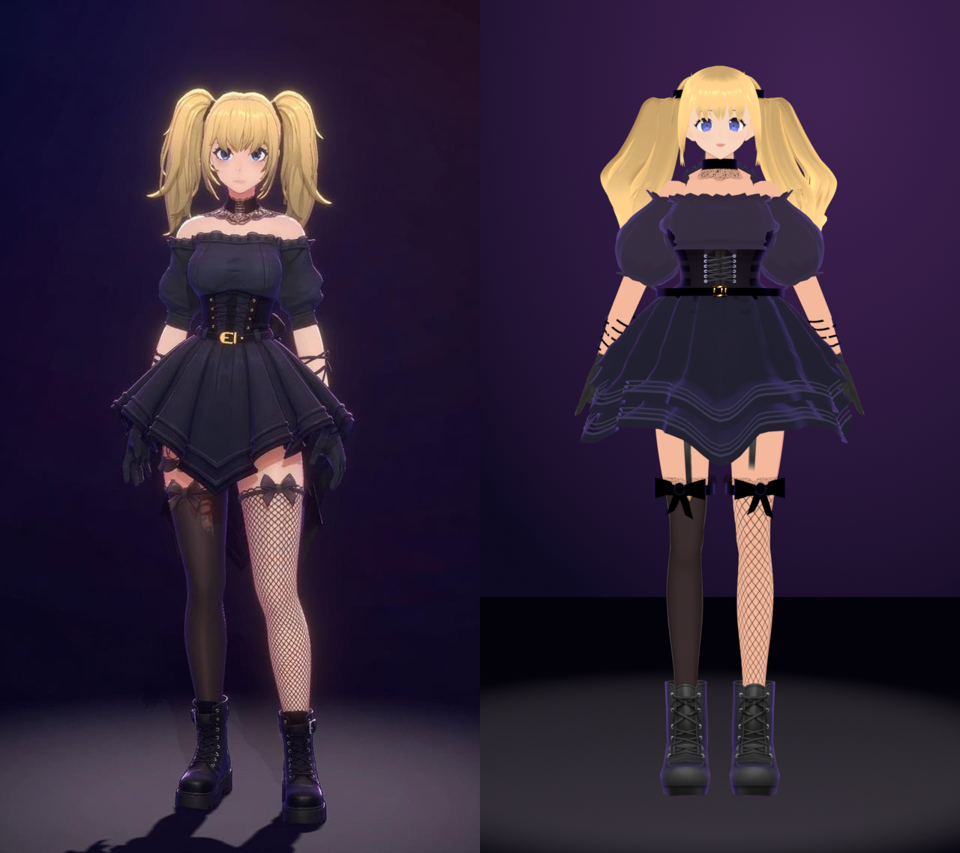
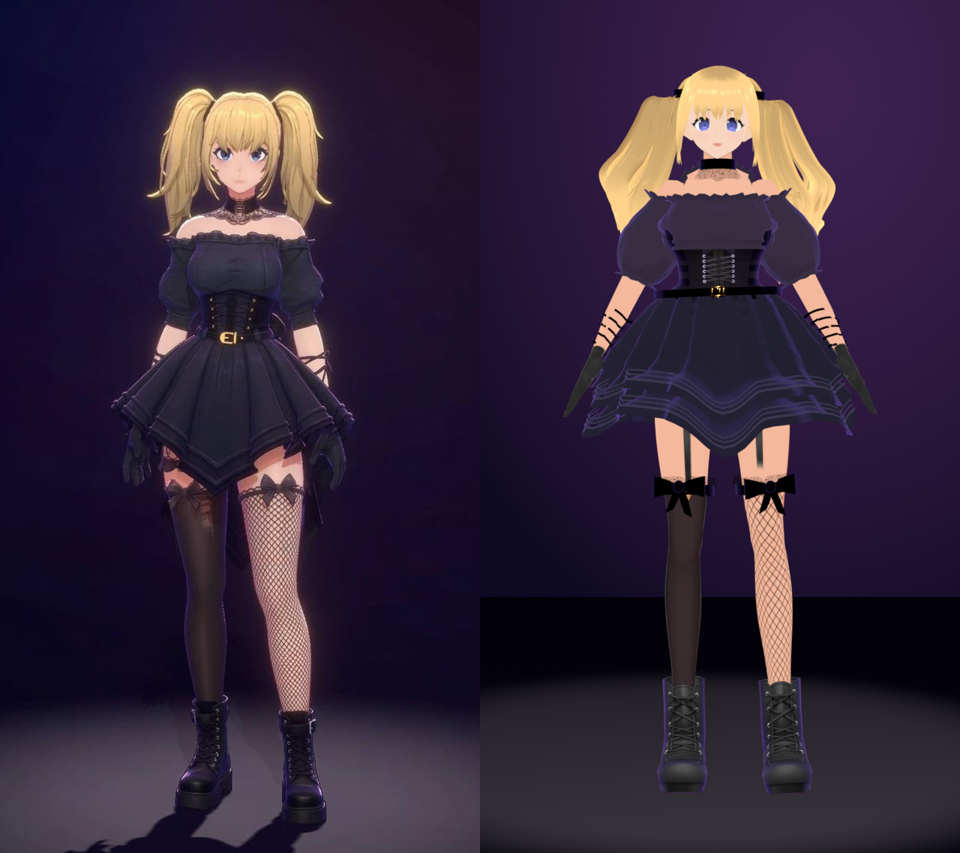
Goth agent: relaxed reference stance in the character sheet
The stage render poses her like the reference: arms angled out past the
flared skirt (hanging straight hid them inside it), soft forward elbows,
one knee eased forward, slight turn through hips and head. Rotations are
about world axes through each bone's head, parents first; a rest-frame
rotation on a child bone twists it instead of bending it. Sleeve puff
trimmed now that the arms hang lower.

Claude-Session: https://claude.ai/code/session_011M9r3rTGgXhm4baeKDbpr3

diff --git a/build/tools/blender-agent-stage.py b/build/tools/blender-agent-stage.py
@@ -3,14 +3,39 @@
 floor, violet and pink rims, warm hair glow, neutral face (see design/blender/agent/README.md).
 
   blender -b --python build/tools/blender-agent-stage.py -- IN.blend OUT.png [VIEW_TRANSFORM] [FRAME]
+  STAGE_POSE=saved keeps the scene's own pose (default: a relaxed stance like the reference)
 
 Works on any agent.blend from blender-agent-avatar.py or blender-agent-refine.py; hides their bust-shot
 backdrop, halo and lights and never saves the file.
 """
-import bpy, math, sys
+import bpy, math, sys, os
 from mathutils import Vector
 argv = sys.argv[sys.argv.index('--') + 1:]; blend, out = argv[0], argv[1]; view = argv[2] if len(argv) > 2 else 'Standard'
 bpy.ops.wm.open_mainfile(filepath=blend); sc = bpy.context.scene; sc.frame_set(int(argv[3]) if len(argv) > 3 else 1)
+# relaxed stance like the reference: arms low with soft elbows, hands by the skirt, one knee eased forward
+from mathutils import Matrix
+POSE = os.environ.get('STAGE_POSE', 'relaxed')
+arm_ = next((o for o in bpy.data.objects if o.type == 'ARMATURE'), None)
+def rot(bname, axis, deg):
+    """Rotate a bone about a WORLD axis through its head, on top of its current pose (parents first)."""
+    pb = arm_.pose.bones.get(bname)
+    if not pb: return
+    bpy.context.view_layer.update(); M = pb.matrix.copy(); h = M.translation.copy()
+    pb.matrix = Matrix.Translation(h) @ Matrix.Rotation(math.radians(deg), 4, axis) @ Matrix.Translation(-h) @ M
+if arm_ and POSE == 'relaxed':
+    for o in [arm_]:
+        if o.animation_data: o.animation_data.action = None
+    for pb in arm_.pose.bones:
+        if pb.name.startswith(('J_Bip_L_', 'J_Bip_R_', 'J_Bip_C_')): pb.rotation_mode = 'QUATERNION'; pb.rotation_quaternion = (1, 0, 0, 0)
+    rot('J_Bip_C_Hips', 'Y', -2); rot('J_Bip_C_Spine', 'Y', 1.5); rot('J_Bip_C_Head', 'Y', 2)
+    for side, sgn in (('L', 1), ('R', -1)):
+        rot('J_Bip_%s_Shoulder' % side, 'Y', sgn * 4)
+        rot('J_Bip_%s_UpperArm' % side, 'Y', sgn * 62)       # out far enough to clear the flared skirt
+        rot('J_Bip_%s_LowerArm' % side, 'X', -24)            # soft elbow: hands come forward to the skirt's edge
+        rot('J_Bip_%s_Hand' % side, 'X', 8)
+        rot('J_Bip_%s_UpperLeg' % side, 'Y', -sgn * 2.5)
+    rot('J_Bip_R_UpperLeg', 'X', -7); rot('J_Bip_R_LowerLeg', 'X', 14); rot('J_Bip_R_Foot', 'X', -7)
+    bpy.context.view_layer.update()
 for o in bpy.data.objects:   # neutral face: drop the clip's expression keys for the still
     if o.type == 'MESH' and o.data.shape_keys and o.data.shape_keys.animation_data:
         o.data.shape_keys.animation_data.action = None

diff --git a/build/tools/blender-agent-refine.py b/build/tools/blender-agent-refine.py
@@ -23,7 +23,7 @@ p.add_argument('--neckline', type=float, default=1.285)     # off-shoulder line 
 p.add_argument('--sleeve-start', type=float, default=0.03)  # along the upper arm from the shoulder joint
 p.add_argument('--sleeve-end', type=float, default=0.212)
 p.add_argument('--puff', type=float, default=0.80)        # (VRoid-sleeve mode only)
-p.add_argument('--puff-r', type=float, default=0.040)     # own sleeve: extra radius at the middle of the puff
+p.add_argument('--puff-r', type=float, default=0.030)     # own sleeve: extra radius at the middle of the puff
 p.add_argument('--vroid-sleeves', action='store_true')     # keep and puff VRoid's sleeve instead of building one
 p.add_argument('--underbust', type=float, default=1.2)      # corset above this height becomes a navy bodice (0 = keep)
 p.add_argument('--skirt-len', type=float, default=0.30)     # bottom tier, between the points

diff --git a/design/blender/agent/README.md b/design/blender/agent/README.md
@@ -182,7 +182,13 @@ torso length does not need new numbers. Every new piece is weighted to a bone an
 weights, so the rig, mouth shapes and the lip-sync script all keep working.
 `build/tools/blender-agent-stage.py` renders the full-length character sheet
 the reference uses: dark indigo stage, overhead spot, violet and pink rims,
-neutral face.
+neutral face, and a relaxed stance (arms angled out past the flared skirt
+with soft elbows, one knee eased forward, a slight turn through the hips
+and head). The pose is applied to the render only; `STAGE_POSE=saved`
+keeps the scene's own pose. Its bone helper rotates about world axes
+through each bone's head, parents first: a child bone's local rotation
+is in its already-rotated parent's frame, so a "bend the elbow" about the
+rest X axis became a twist along the forearm.
 
 ```sh
 blender -b --python build/tools/blender-agent-avatar.py -- --vrm goth-agent.vrm \
